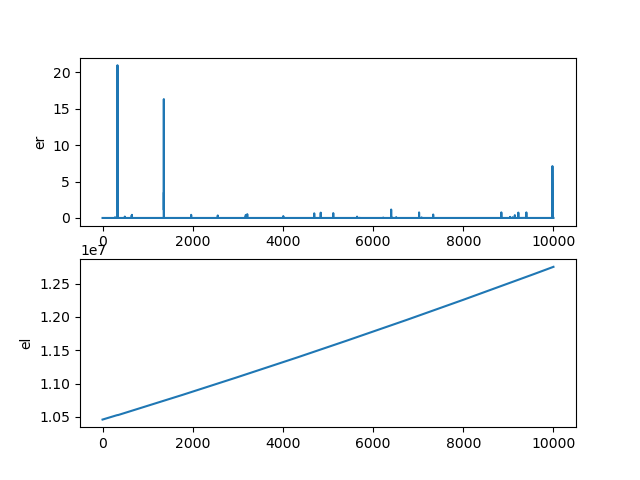
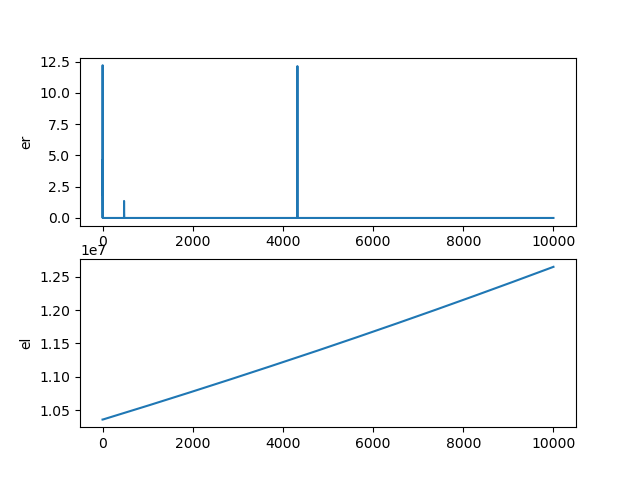
Avant nouveau critere de redistribution courrant

diff --git a/FarhangAnalytical.py b/FarhangAnalytical.py
@@ -70,31 +70,40 @@ class Avalanche:
         curv = np.zeros((self.n, self.n))  # curvature of the lattice initialization
         curv[1:-1, 1:-1] = self.lat_B[1:-1, 1:-1] - 1 / 4 * (self.lat_B[1:-1, 0:-2] + self.lat_B[1:-1, 2:] +
                                                              self.lat_B[0:-2, 1:-1] + self.lat_B[2:, 1:-1])
-        hicounter = 0
+
         for i in range(self.n):
             for j in range(self.n):
                 if i == 0 or i ==self.n-1 or j == 0 or j == self.n-1:
                     pass
                 else:
                     if curv[i, j] > Zc:
-                        rs = np.random.uniform(0, 1, size=(3, 1))[:,0]
-                        r1 = rs[0]
-                        r2 = rs[1]
-                        r3 = rs[2]
-                        a = np.sum(rs)
-                        directions = np.array([[i-1, j], [i, j+1], [i+1, j], [i, j-1]])
-                        np.random.shuffle(directions)
-                        theta = -r1*self.current(self.lat_B, directions[0]) -\
-                                r2*self.current(self.lat_B, directions[1]) -\
-                                r1*self.current(self.lat_B, directions[2]) + a*self.current(self.lat_B, directions[3])
-                        x = (3.2*(r1**2+r2**2+r3**2)*Zc - a*theta)/(theta + 3.2*Zc*a)
-                        energy_calc_lattice = copy.deepcopy(self.lat_B)
-                        energy_calc_lattice[i, j] -= 4 / 5 * Zc
-                        energy_calc_lattice[directions[2][0], directions[2][1]] += 4 / 5 * Zc * rs[0] / (x+a)
-                        energy_calc_lattice[directions[1][0], directions[1][1]] += 4 / 5 * Zc * rs[1] / (x+a)
-                        energy_calc_lattice[directions[0][0], directions[0][1]] += 4 / 5 * Zc * rs[2] / (x+a)
-                        energy_calc_lattice[directions[3][0], directions[3][1]] += 4 / 5 * Zc * x / (x+a)
-                        new_energy_dissipated = -self.e_total(energy_calc_lattice)+self.e_total(self.lat_B)
+                        converged = 0
+                        while converged < 10:
+                            rs = np.random.uniform(0, 1, size=(3, 1))[:,0]
+                            r1 = rs[0]
+                            r2 = rs[1]
+                            r3 = rs[2]
+                            a = np.sum(rs)
+                            directions = np.array([[i - 1, j], [i, j + 1], [i + 1, j], [i, j - 1]])
+                            smallest_neighbour = np.argmin(
+                                [self.lat_B[i - 1, j], self.lat_B[i, j + 1], self.lat_B[i + 1, j], self.lat_B[i, j - 1]])
+                            directions = np.roll(directions, -smallest_neighbour, axis=0)
+                            np.random.shuffle(directions[0:3])
+                            theta = -r1*self.current(self.lat_B, directions[0]) -\
+                                    r2*self.current(self.lat_B, directions[1]) -\
+                                    r1*self.current(self.lat_B, directions[2]) + a*self.current(self.lat_B, directions[3])
+                            x = (3.2*(r1**2+r2**2+r3**2)*Zc - a*theta)/(theta + 3.2*Zc*a)
+                            energy_calc_lattice = copy.deepcopy(self.lat_B)
+                            energy_calc_lattice[i, j] -= 4 / 5 * Zc
+                            energy_calc_lattice[directions[2][0], directions[2][1]] += 4 / 5 * Zc * rs[0] / (x+a)
+                            energy_calc_lattice[directions[1][0], directions[1][1]] += 4 / 5 * Zc * rs[1] / (x+a)
+                            energy_calc_lattice[directions[0][0], directions[0][1]] += 4 / 5 * Zc * rs[2] / (x+a)
+                            energy_calc_lattice[directions[3][0], directions[3][1]] += 4 / 5 * Zc * x / (x+a)
+                            new_energy_dissipated = -self.e_total(energy_calc_lattice)+self.e_total(self.lat_B)
+                            if new_energy_dissipated > 0:
+                                converged = 10
+                            else:
+                                converged += 1
                         if new_energy_dissipated < 0:
                             pass
                         if new_energy_dissipated >= 0:
@@ -114,6 +123,7 @@ class Avalanche:
                 epsilon = 1e-5
                 self.lat_B *= (1 + epsilon)
                 energy_dissipated = 0
+                self.avalanching=False
                 print('energy negative')
 
 
